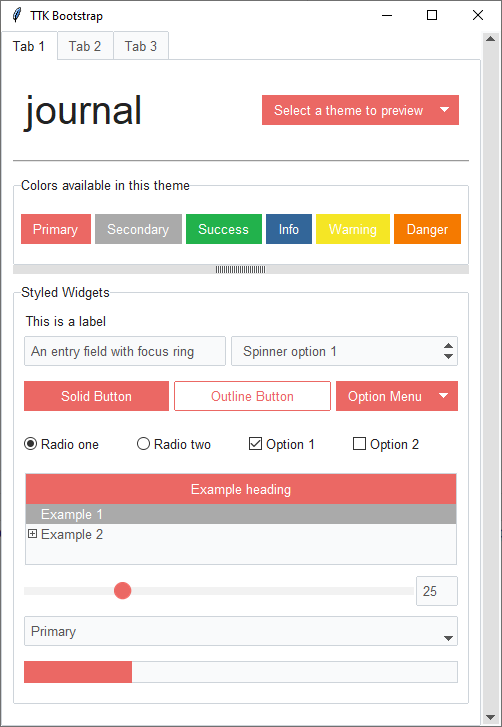
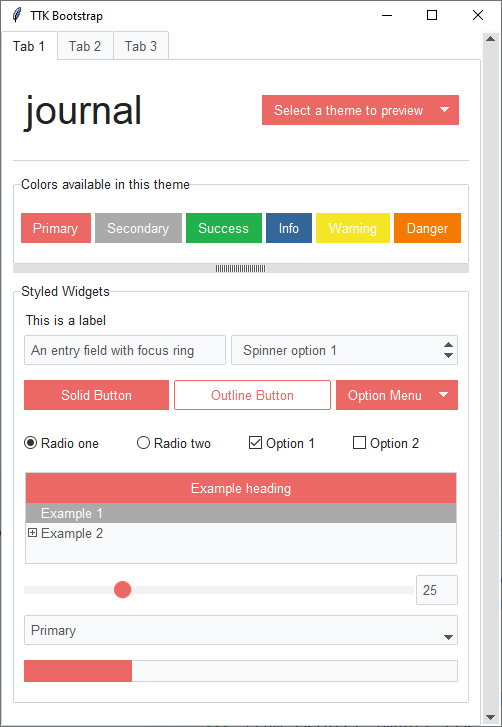
update theme images for new separator

diff --git a/src/ttkbootstrap/demo.py b/src/ttkbootstrap/demo.py
@@ -20,7 +20,7 @@ class Demo(Style):
         super().__init__()
         self.theme_use('lumen')
         self.root = self.master
-        #self.root.geometry('500x695')
+        self.root.geometry('500x695')
         self.root.protocol("WM_DELETE_WINDOW", self.quit)
         self.root.title('TTK Bootstrap')
         self.theme_name = tkinter.StringVar()
